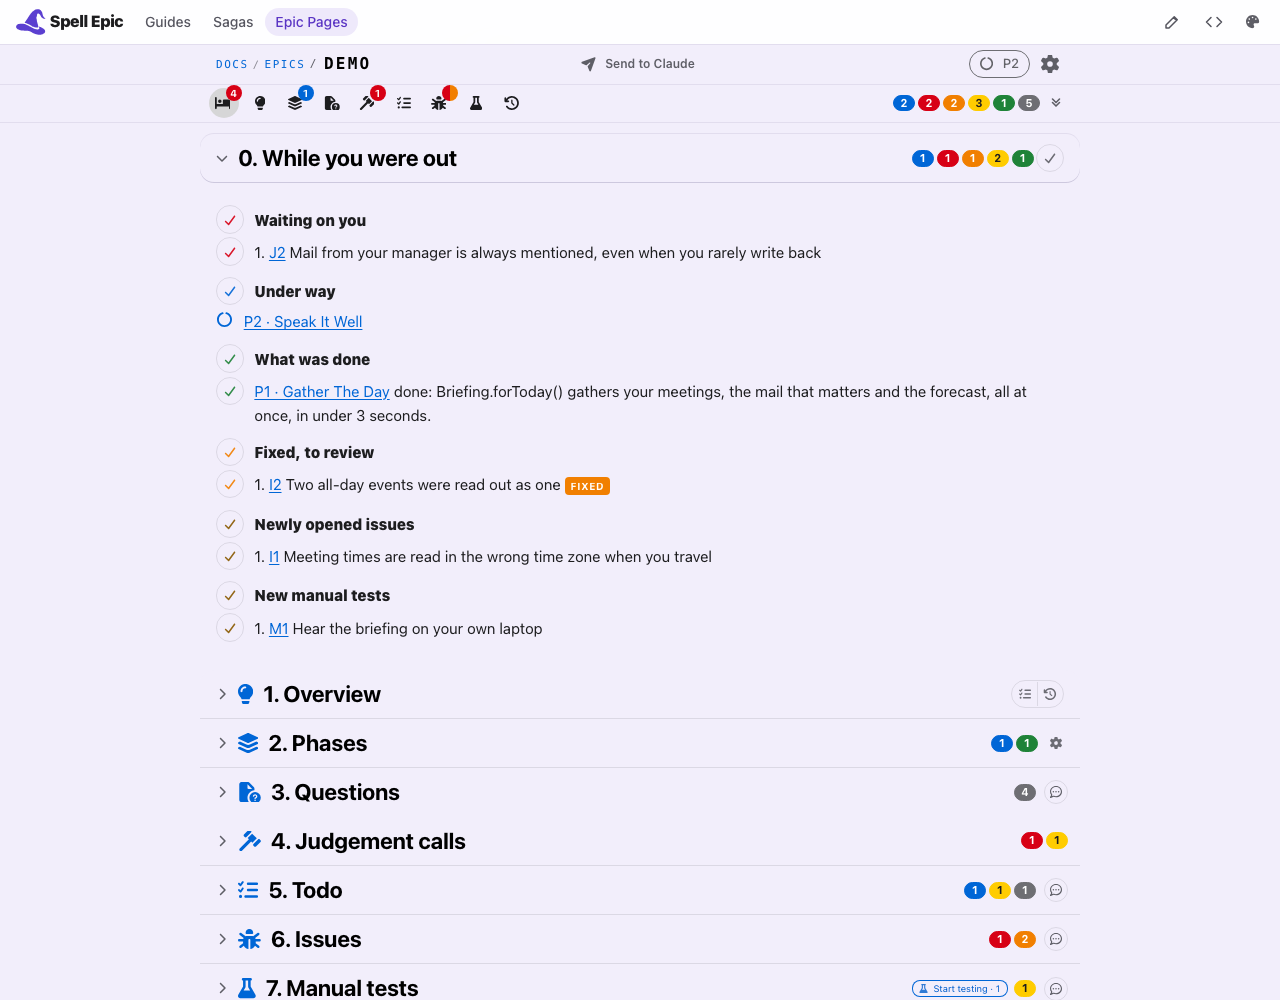
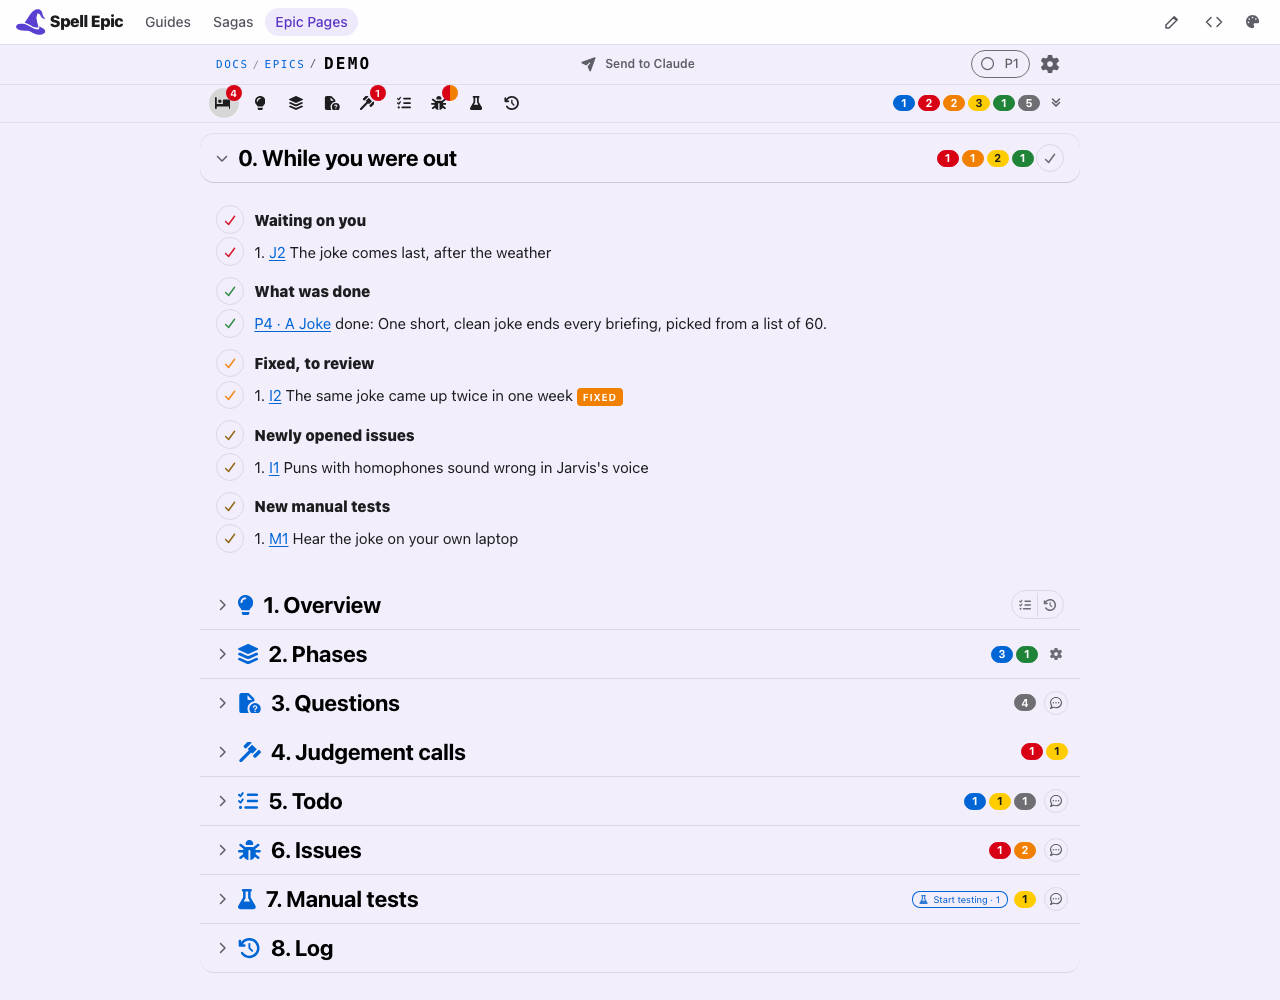
auto: epic epic-engine
Turn-end: epic-engine
Session: 4d9aa1d9-7f68-4a51-8815-074ab31e034e

diff --git a/epics/epic-engine/epic-engine.plan.html b/epics/epic-engine/epic-engine.plan.html
@@ -25,7 +25,7 @@
             saga="epics"
             away-read="2026-11-03T17:49-05:00"
             away-seen="p-while-you-were-out=2026-11-03T21:45-05:00 i209=2026-11-03T21:45-05:00 done=2026-11-14T03:32-05:00 i307=2026-11-15T18:15-05:00"
-            recent-since="2026-11-18T20:31:51-05:00"
+            recent-since="2026-11-18T20:41:16-05:00"
             repo="https://github.com/spell-app/spell"
           >
             <epic-section
@@ -6298,7 +6298,18 @@
                 urgent
                 source="parts/t98.html"
               ></epic-item
-            ></epic-section>
+              ><epic-item
+                id="t99"
+                title="The home page's active epics show their red, orange and blue counts, their phase or Done, and their agents"
+                status="open"
+                state="progress"
+                changed="2026-11-18T20:47:36-05:00"
+                source="parts/t99.html"
+                ><epic-status slot="status" state="underway" at="2026-11-18 20:47" from="owenoak" agent="claude"
+                  ><p>Taken up at once: agent <code>epic-engine-home-pills</code> is on it.</p></epic-status
+                ></epic-item
+              ></epic-section
+            >
 
             <epic-section id="issues" kind="issues"
               ><epic-item
@@ -12464,6 +12475,7 @@
                 changed="2026-11-18T20:27:44-05:00"
                 phase="77"
                 requested
+                unmerged="epic-engine"
                 source="parts/i348.html"
                 ><epic-status slot="status" state="underway" at="2026-11-18 20:27" from="owenoak" agent="claude"
                   ><p>Taken up at once: agent <code>epic-engine-item-line</code> is on it.</p></epic-status

diff --git a/epics/epic-engine/parts/t99.html b/epics/epic-engine/parts/t99.html
@@ -1,0 +1,6 @@
+<!-- plan-doc part:  #t99's details in epic-engine.plan.html, loaded when it opens (templates/epics/plan-doc.md, "Parts") -->
+<p>
+  owenoak: “Active epics. Show blue/red/orange badges in these. Also active phase if any or Done and # of agents -- can
+  look like 2nd pic, but smaller.”
+</p>
+<epic-picture label="IMG1"><img src="/epics/epic-engine/pictures/t99-20261118-2047.png" alt="16.png" /></epic-picture>
